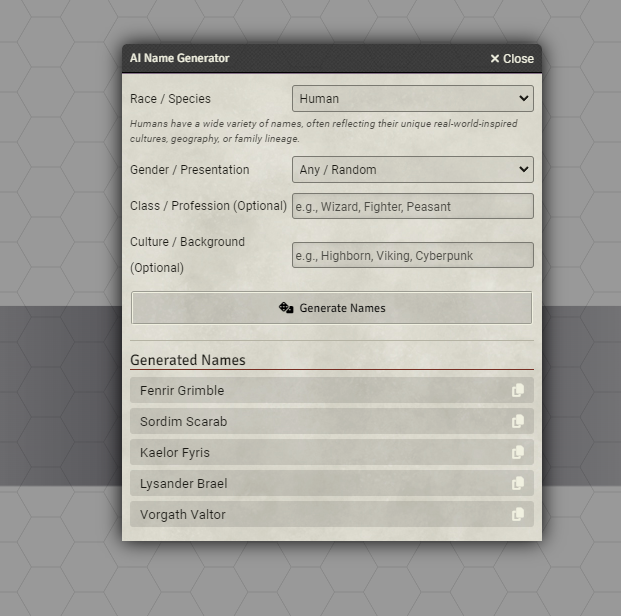
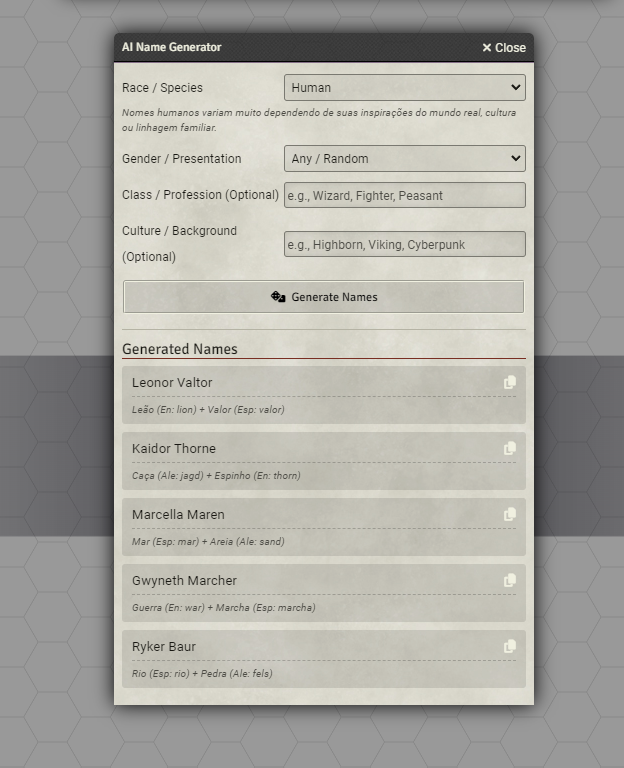
Enhance Class and Culture prompt weights (1.2x) and bump version to 1.0.4

Changed region(s): [[0.0, 0.0, 1.0, 0.9562], [0.6119, 0.6477, 0.7037, 0.7094], [0.6119, 0.7403, 0.6425, 0.7711]]

diff --git a/scripts/api.js b/scripts/api.js
@@ -40,11 +40,11 @@ export async function generateNames(options) {
     }
 
     if (className) {
-        promptParts.push(`Class/Profession: ${className}`);
+        promptParts.push(`Class/Profession: ${className} (MUITO IMPORTANTE: Essa classe deve ter um peso 1.2x maior do que a categoria da raça na escolha das palavras)`);
     }
 
     if (culture) {
-        promptParts.push(`Culture/Background: ${culture}`);
+        promptParts.push(`Culture/Background: ${culture} (MUITO IMPORTANTE: Essa cultura deve ter um peso 1.2x maior do que a categoria da raça na escolha das palavras)`);
     }
 
     if (raceKey === 'custom') {
